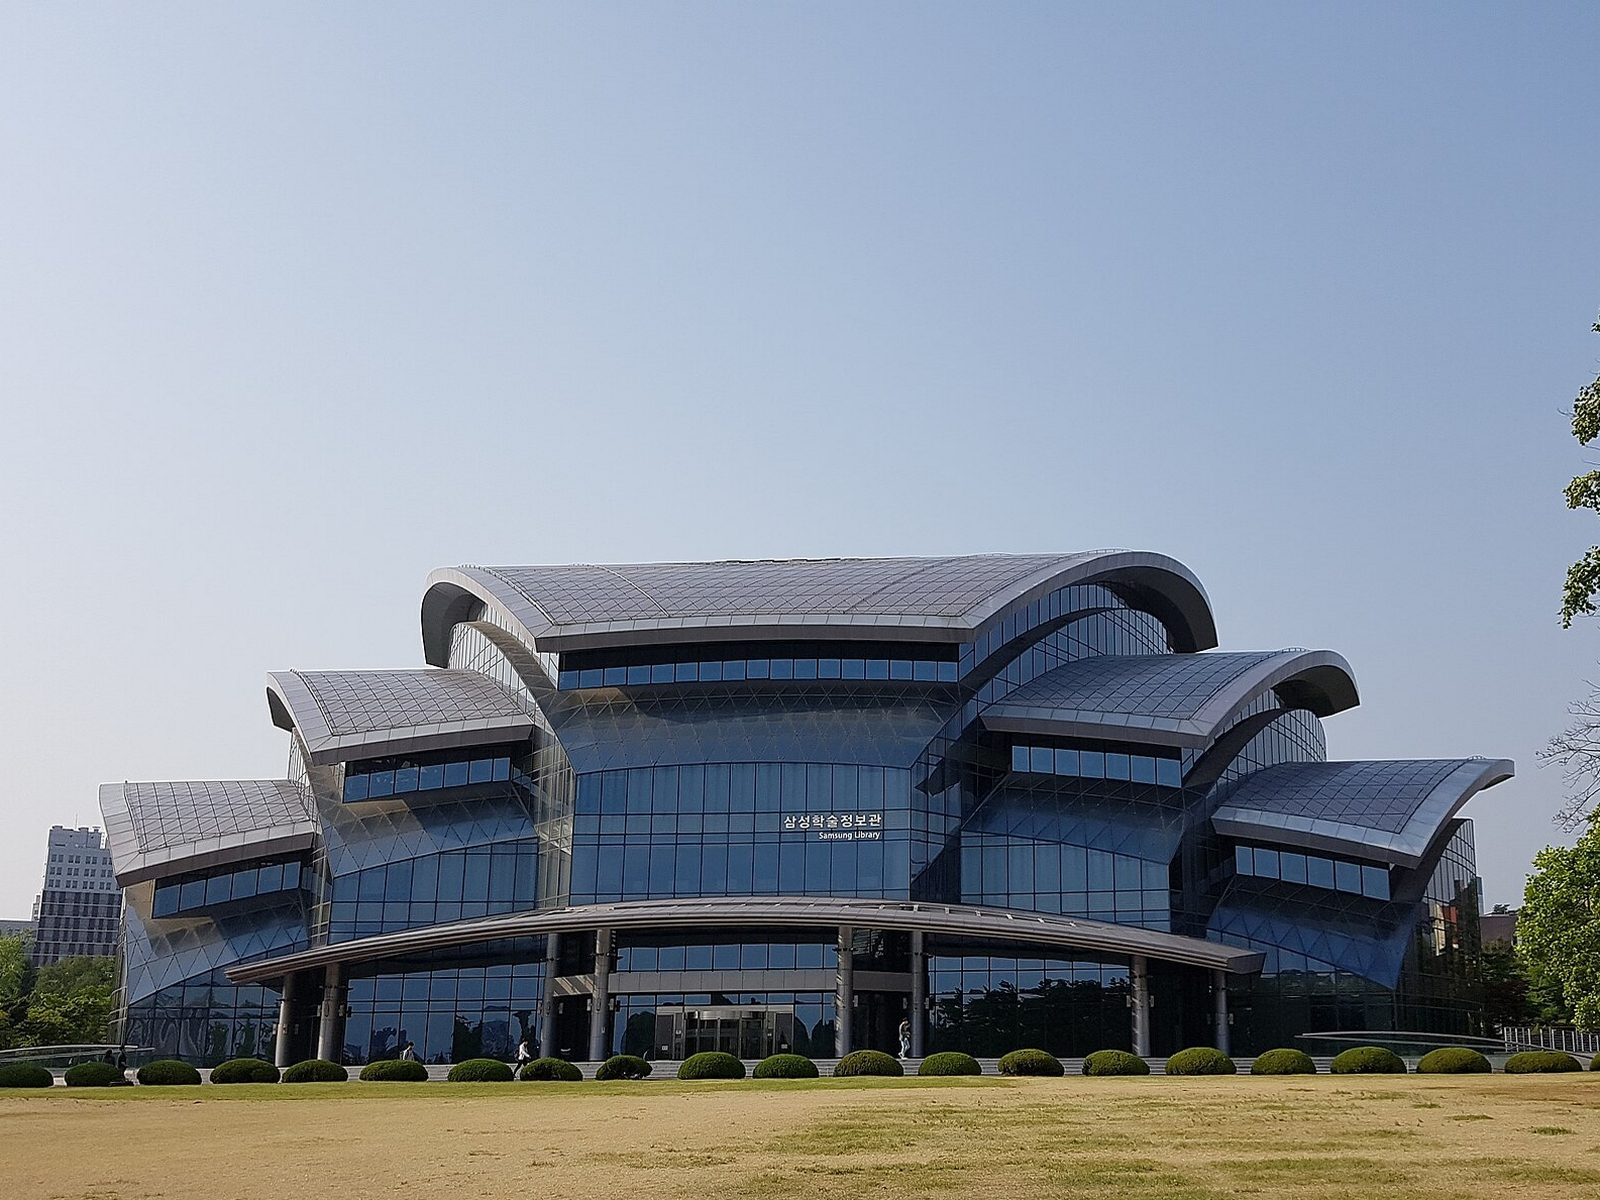
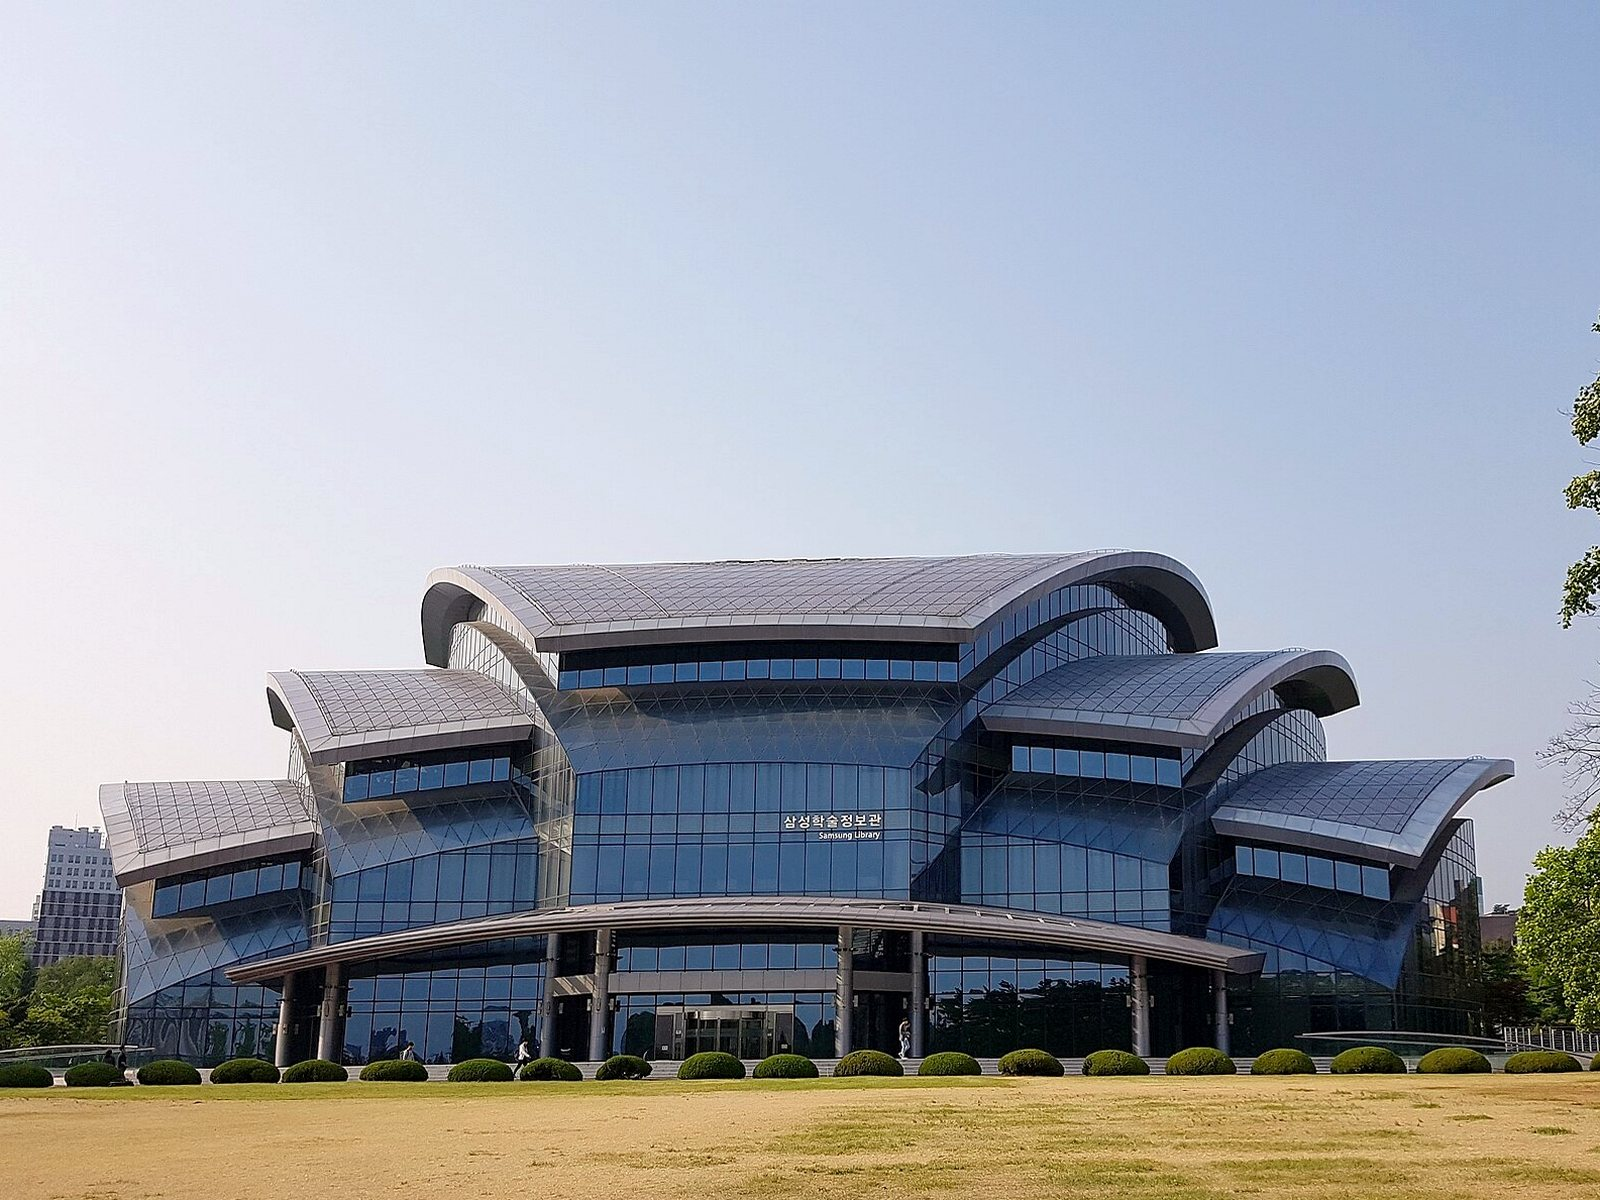
Brighter, warmer hero photos; lighter overlay

diff --git a/2026_workshop/assets/css/style.css b/2026_workshop/assets/css/style.css
@@ -120,13 +120,13 @@ p, li, dd, figcaption, .lead { text-wrap: pretty; }
 .hero-photo { position: absolute; top: 0; bottom: 0; width: 50%; background-size: cover; background-position: center 88%; }  /* both photos are 4:3 with the ground at 90 % of the height, so the ground lines meet */
 .hero-left { left: 0; }
 .hero-right { right: 0; }
-.hero-shade { position: absolute; inset: 0; background: linear-gradient(180deg, rgba(10, 10, 12, 0) 0%, rgba(10, 10, 12, 0) 38%, rgba(10, 10, 12, .35) 62%, rgba(10, 10, 12, .78) 100%); }
+.hero-shade { position: absolute; inset: 0; background: linear-gradient(180deg, rgba(10, 10, 12, 0) 0%, rgba(10, 10, 12, 0) 50%, rgba(10, 10, 12, .22) 68%, rgba(10, 10, 12, .58) 100%); }
 .hero-cap { position: absolute; top: 18px; max-width: 70%; font: 400 .72rem/1.4 var(--mono); color: #fff; background: rgba(0, 0, 0, .45); padding: 5px 9px; z-index: 2; }
 .hero-left .hero-cap { left: 18px; }
 .hero-right .hero-cap { right: 18px; text-align: right; }
 .hero-center { position: relative; z-index: 2; padding-top: clamp(300px, 46vh, 520px); padding-bottom: 64px; text-align: center; color: #fff; }
-.hero-photos h1 { color: #fff; max-width: 16em; margin-left: auto; margin-right: auto; text-shadow: 0 2px 18px rgba(0, 0, 0, .55); }
-.hero-photos .label-light { text-shadow: 0 1px 8px rgba(0, 0, 0, .6); }
+.hero-photos h1 { color: #fff; max-width: 16em; margin-left: auto; margin-right: auto; text-shadow: 0 1px 2px rgba(0, 0, 0, .45), 0 2px 22px rgba(0, 0, 0, .55); }
+.hero-photos .label-light { color: #fff; text-shadow: 0 1px 2px rgba(0, 0, 0, .6), 0 1px 10px rgba(0, 0, 0, .55); }
 .hero-photos .label-light { color: rgba(255, 255, 255, .82); }
 .hero-photos .hero-lead { color: rgba(255, 255, 255, .9); margin-left: auto; margin-right: auto; }
 .hero-photos .hero-facts { color: rgba(255, 255, 255, .72); }
